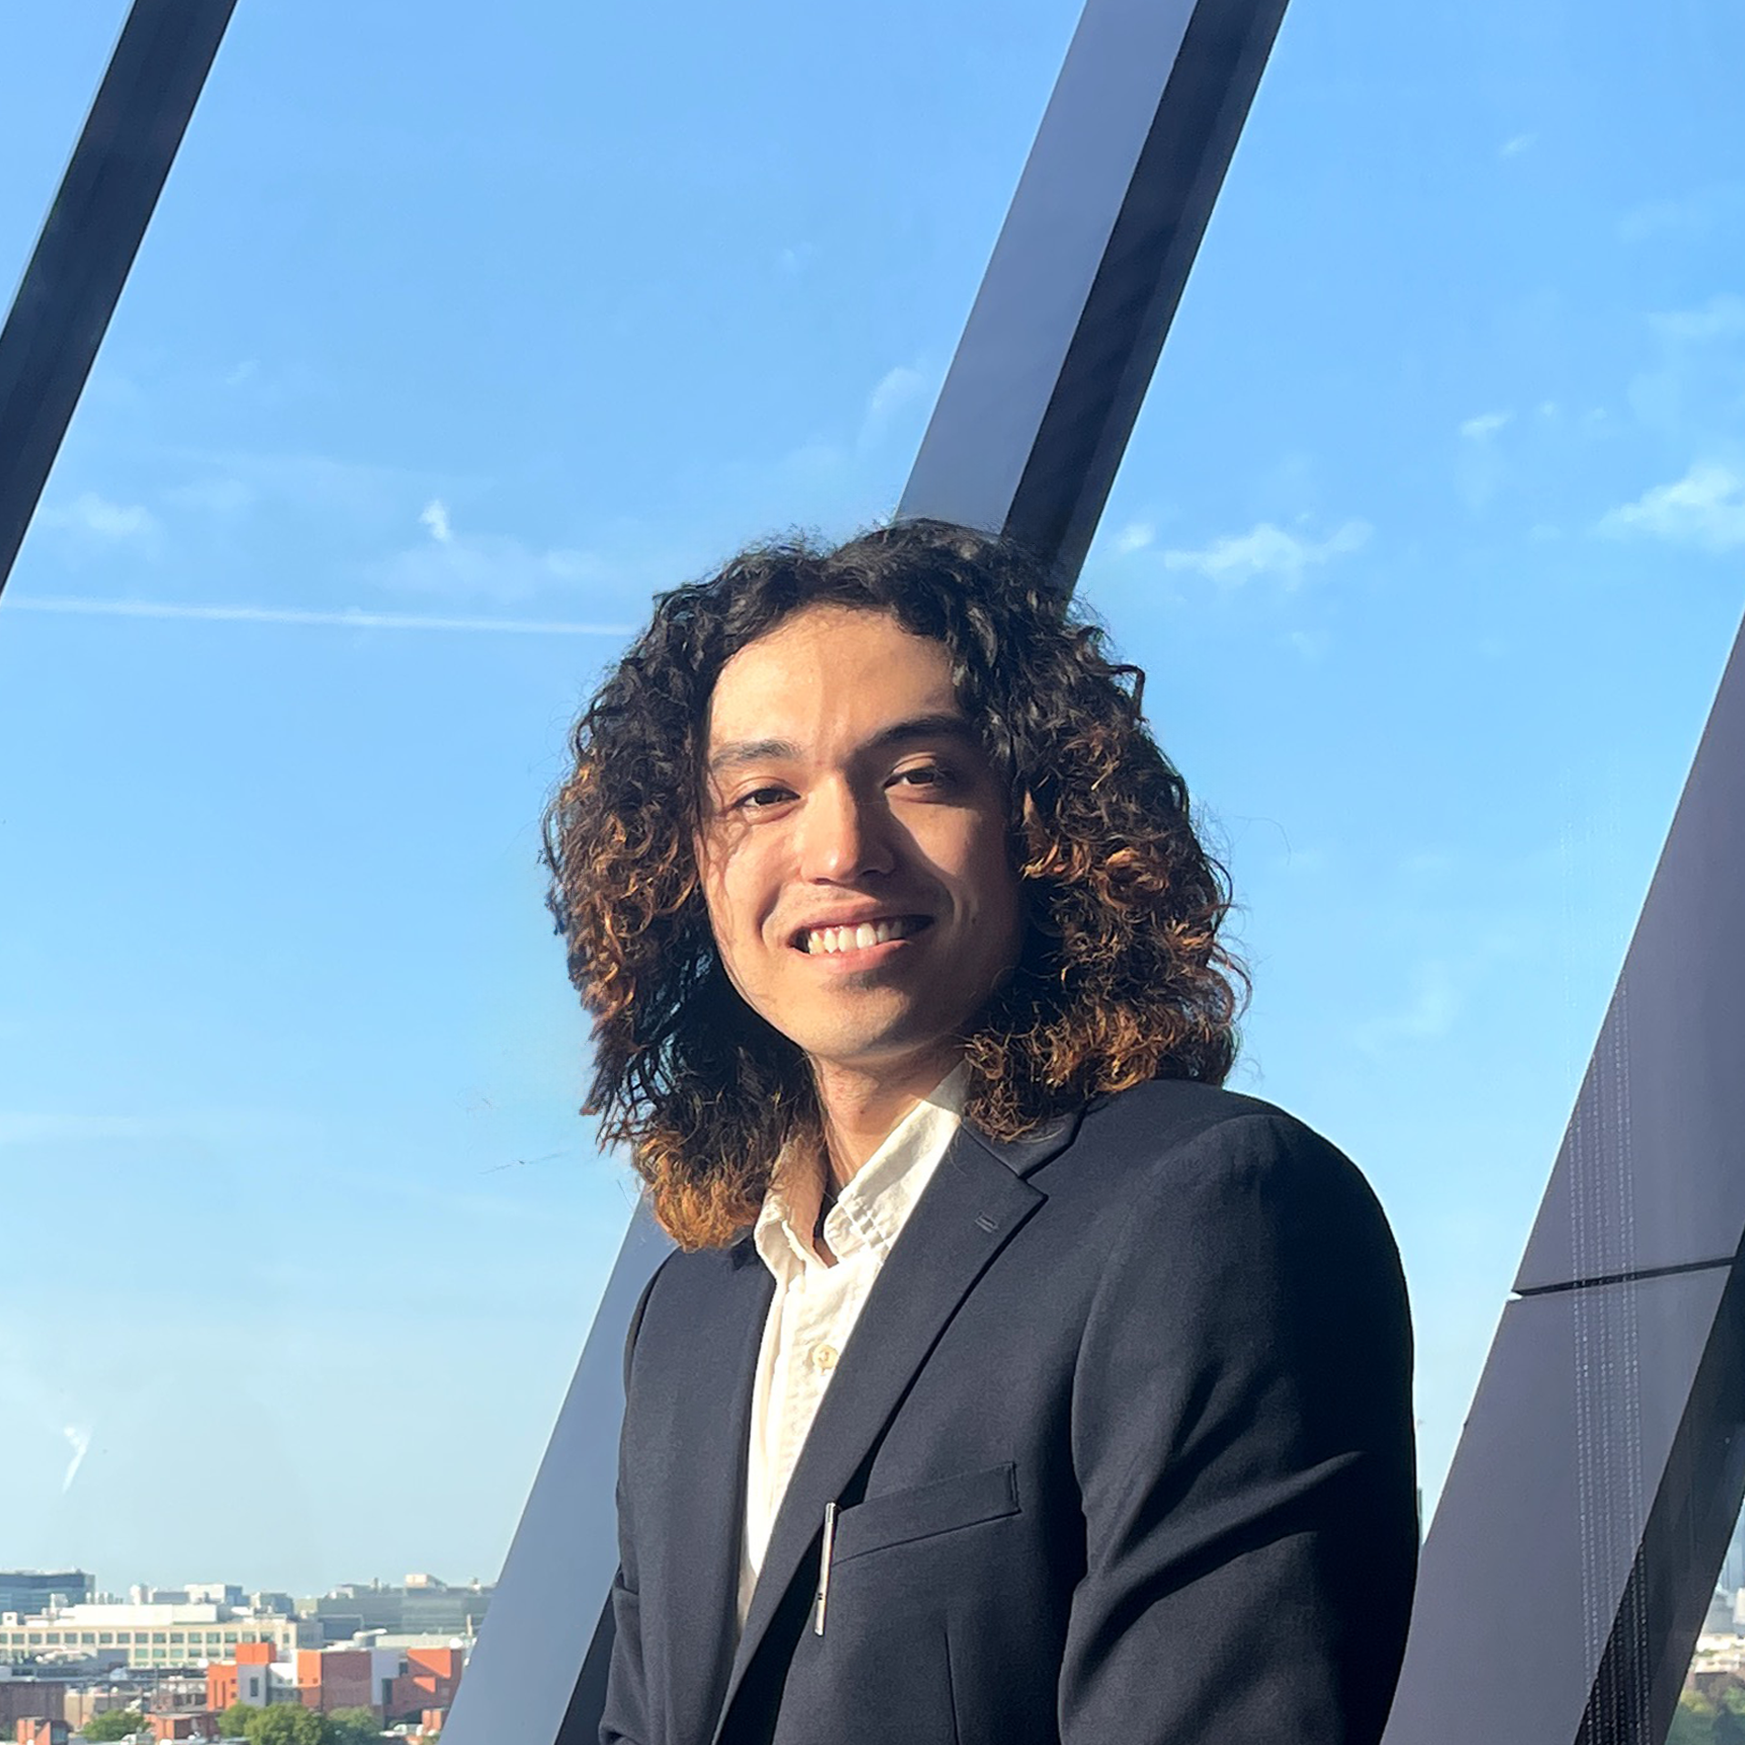
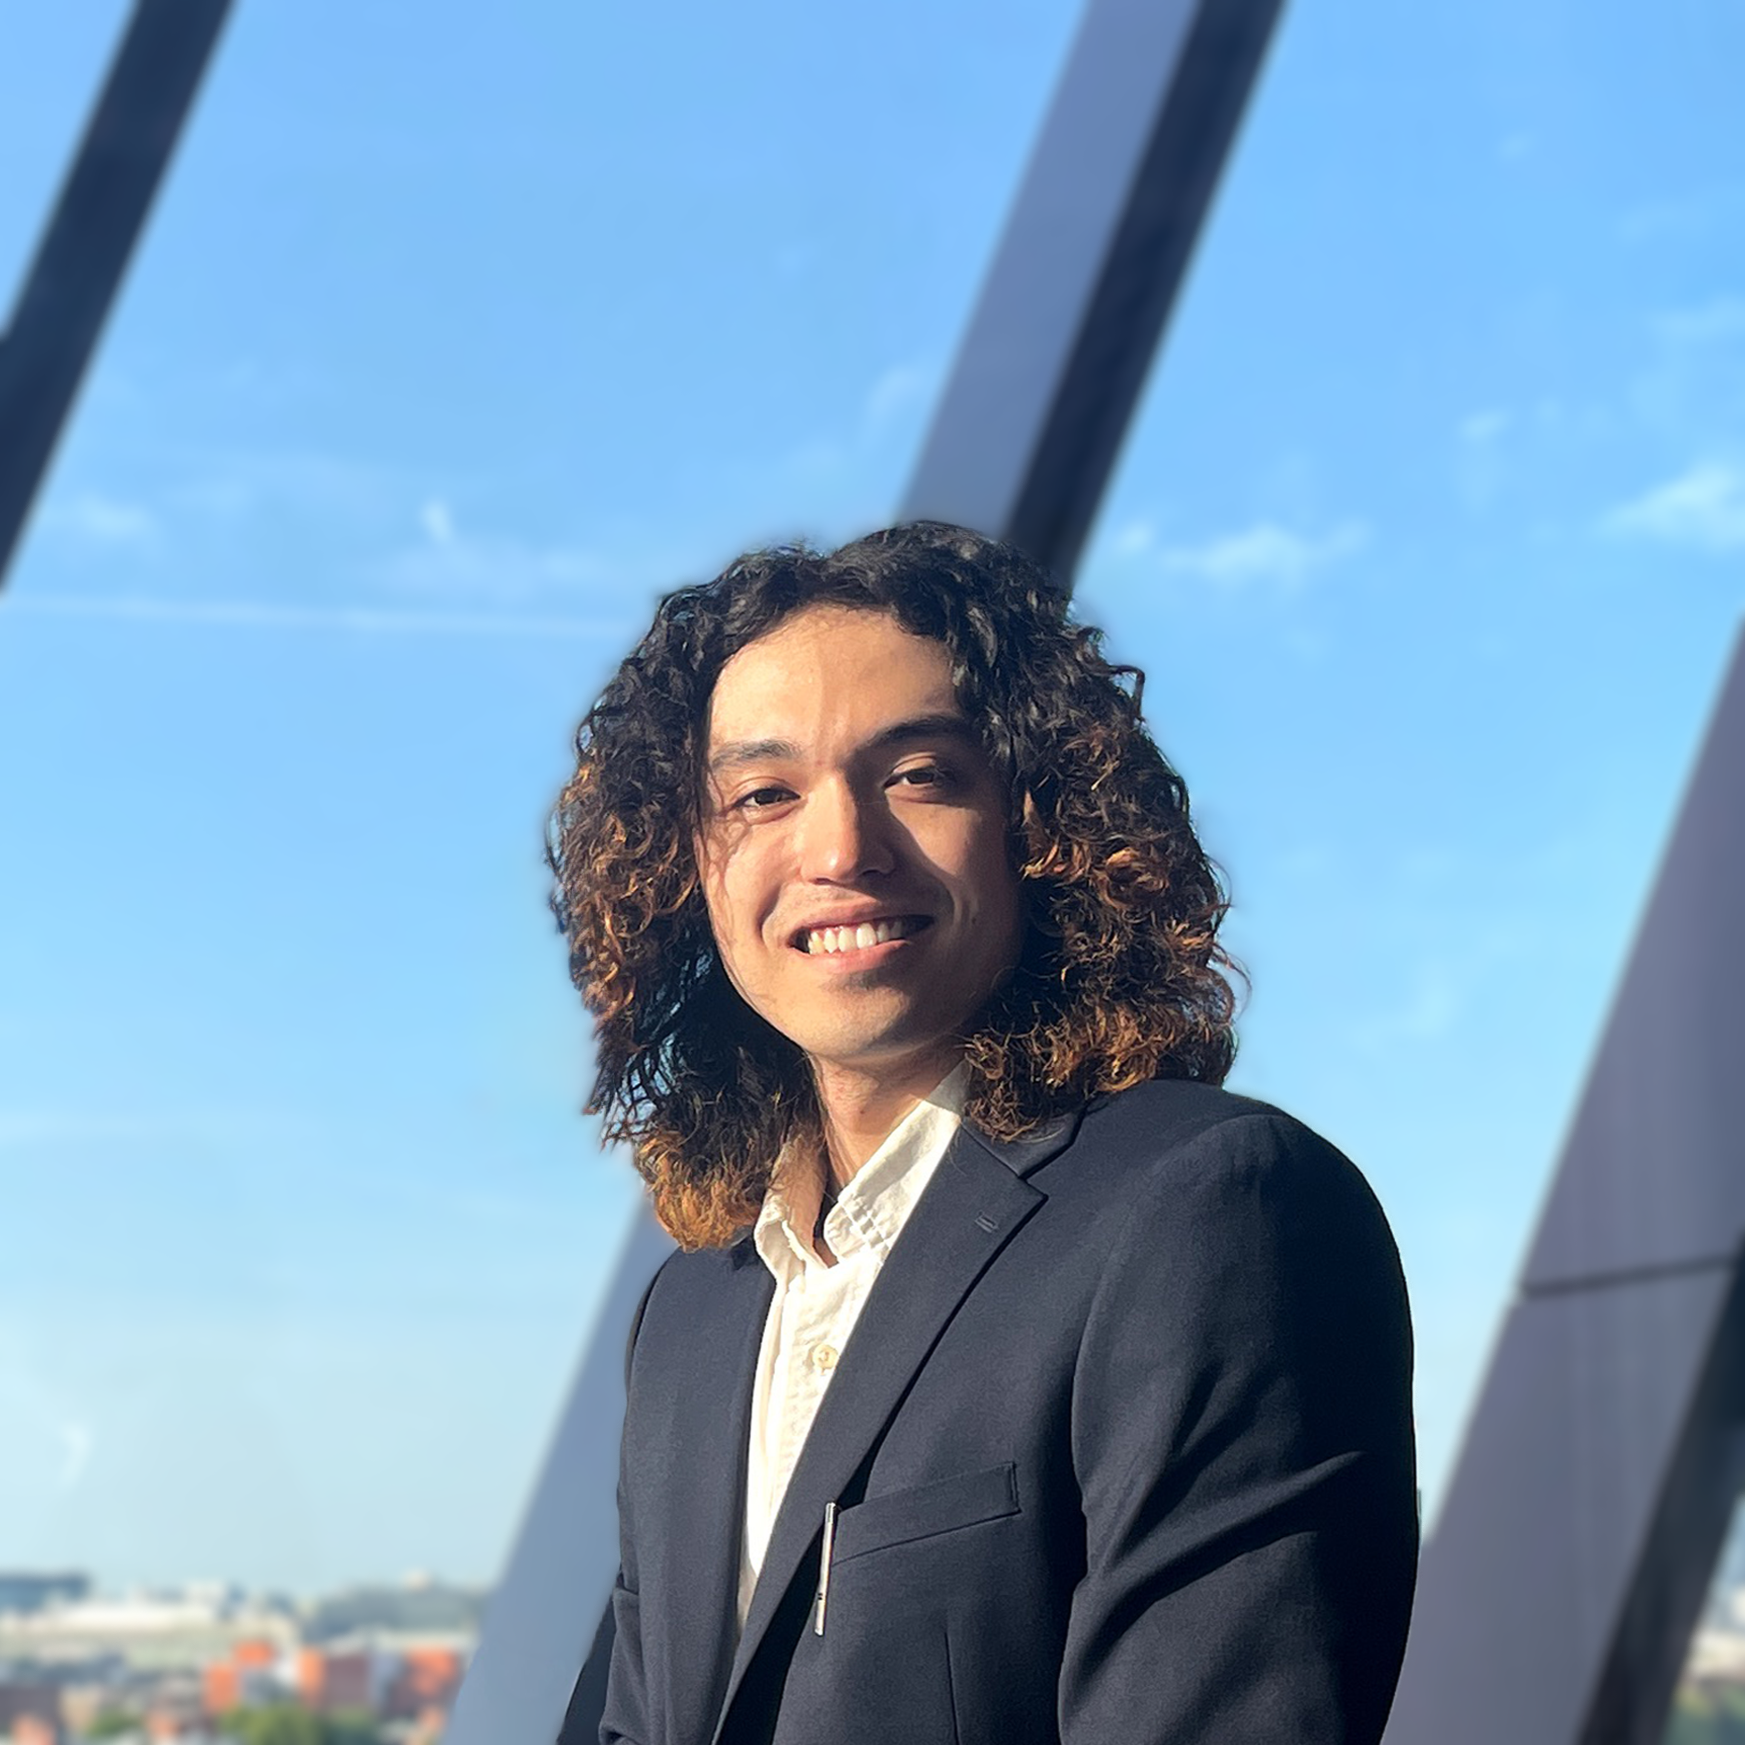
Blurred Profile pic background; fixed time zone

diff --git a/index.html b/index.html
@@ -97,7 +97,7 @@
                experience in project management, machine learning, front end design, 
                and product development. I've programmed in JavaScript, Java, Python, 
                C, C++, CSS/HTML, Linux, & PyTorch. In my freetime, I enjoy biking, 
-               hiking, photography, and gaming. I live on Eastern Standard Time (UTC -5).
+               hiking, photography, and gaming. I live on Eastern Standard Time (UTC -4).
                
                Have a look at my resume and feel 
                free to contact me anytime!
